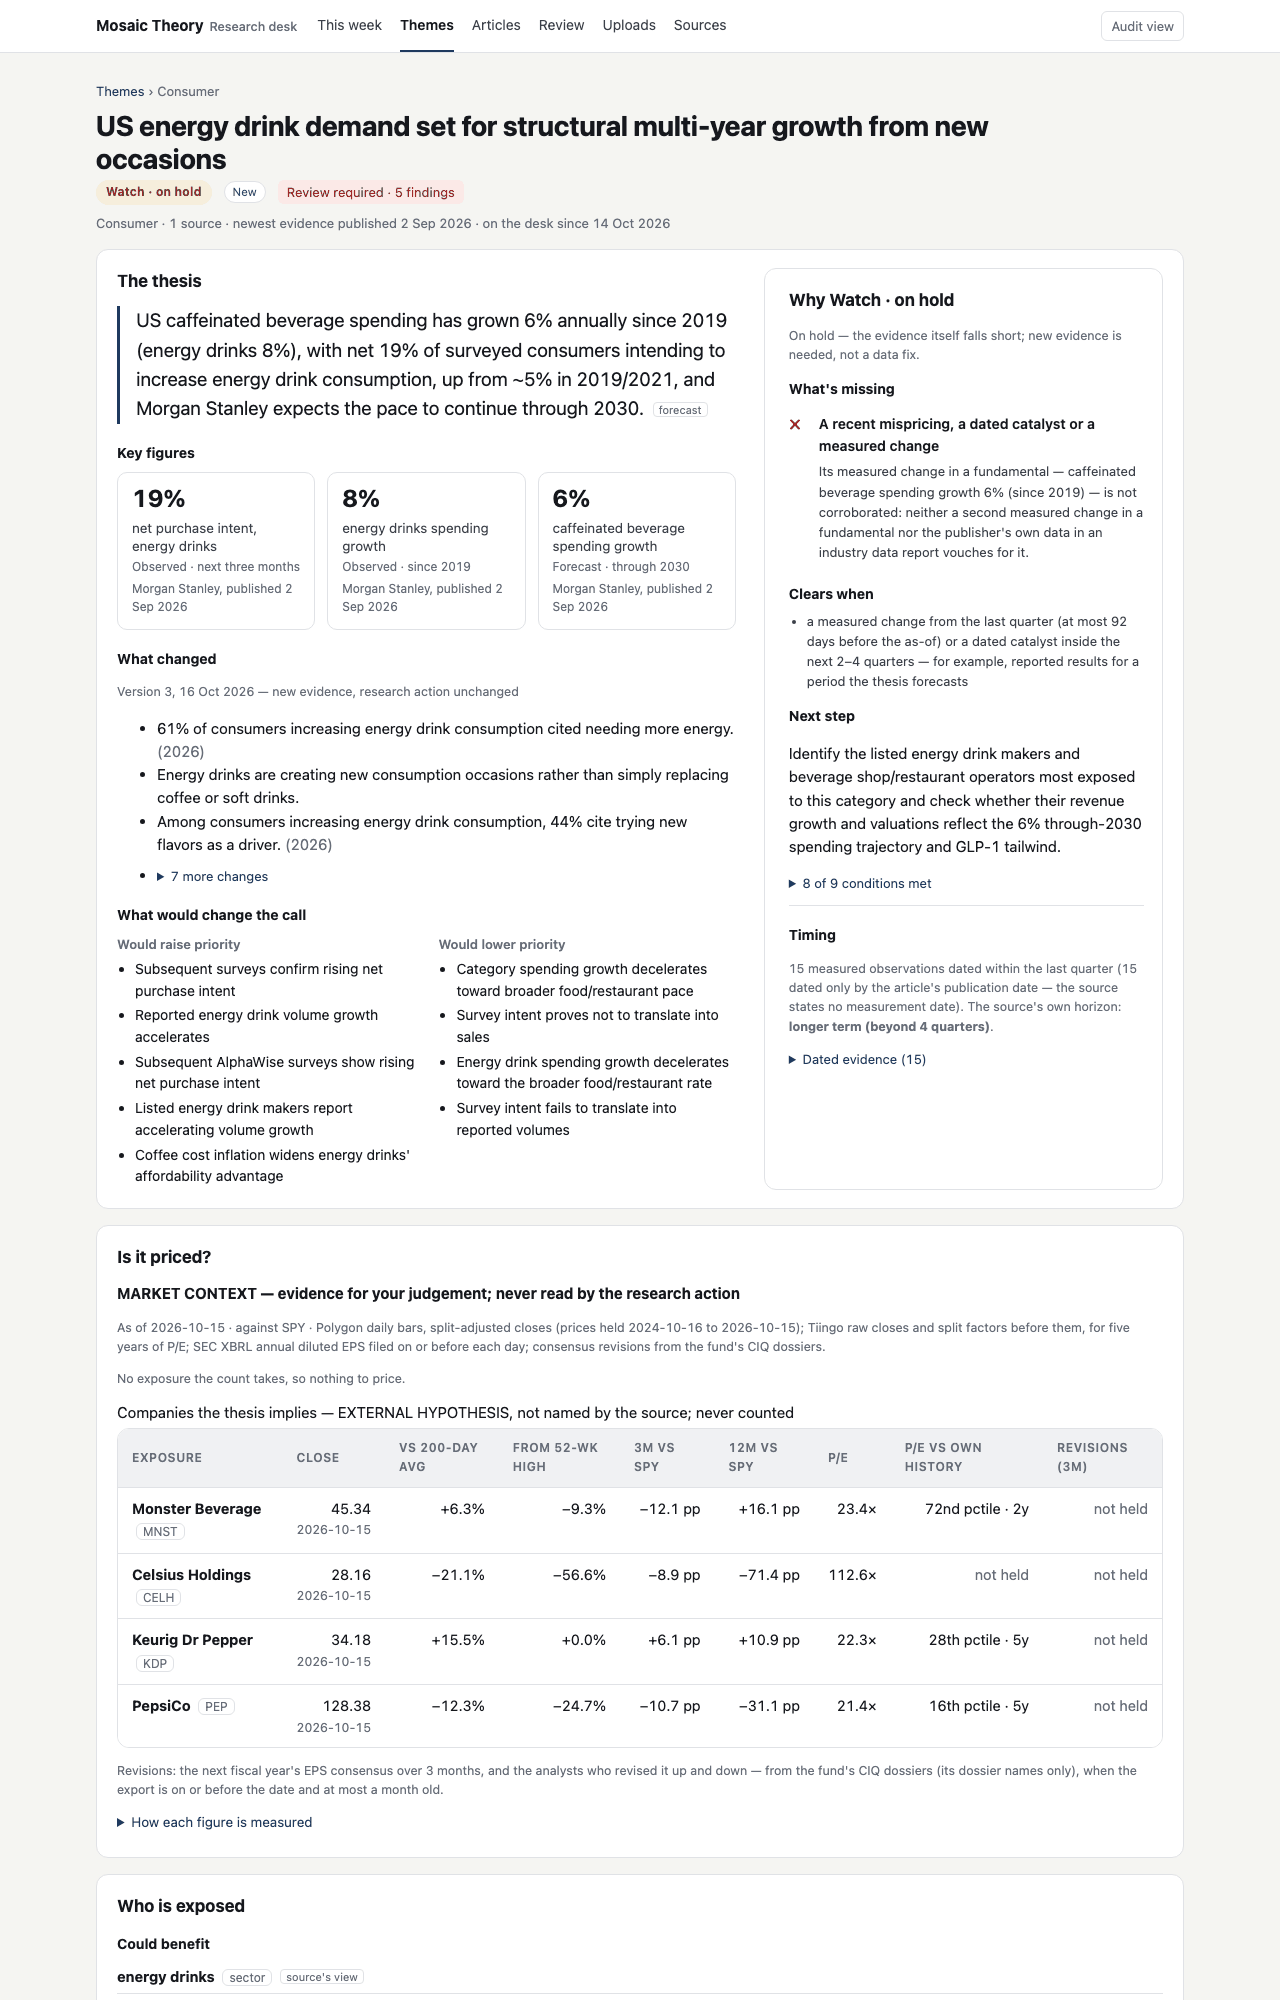
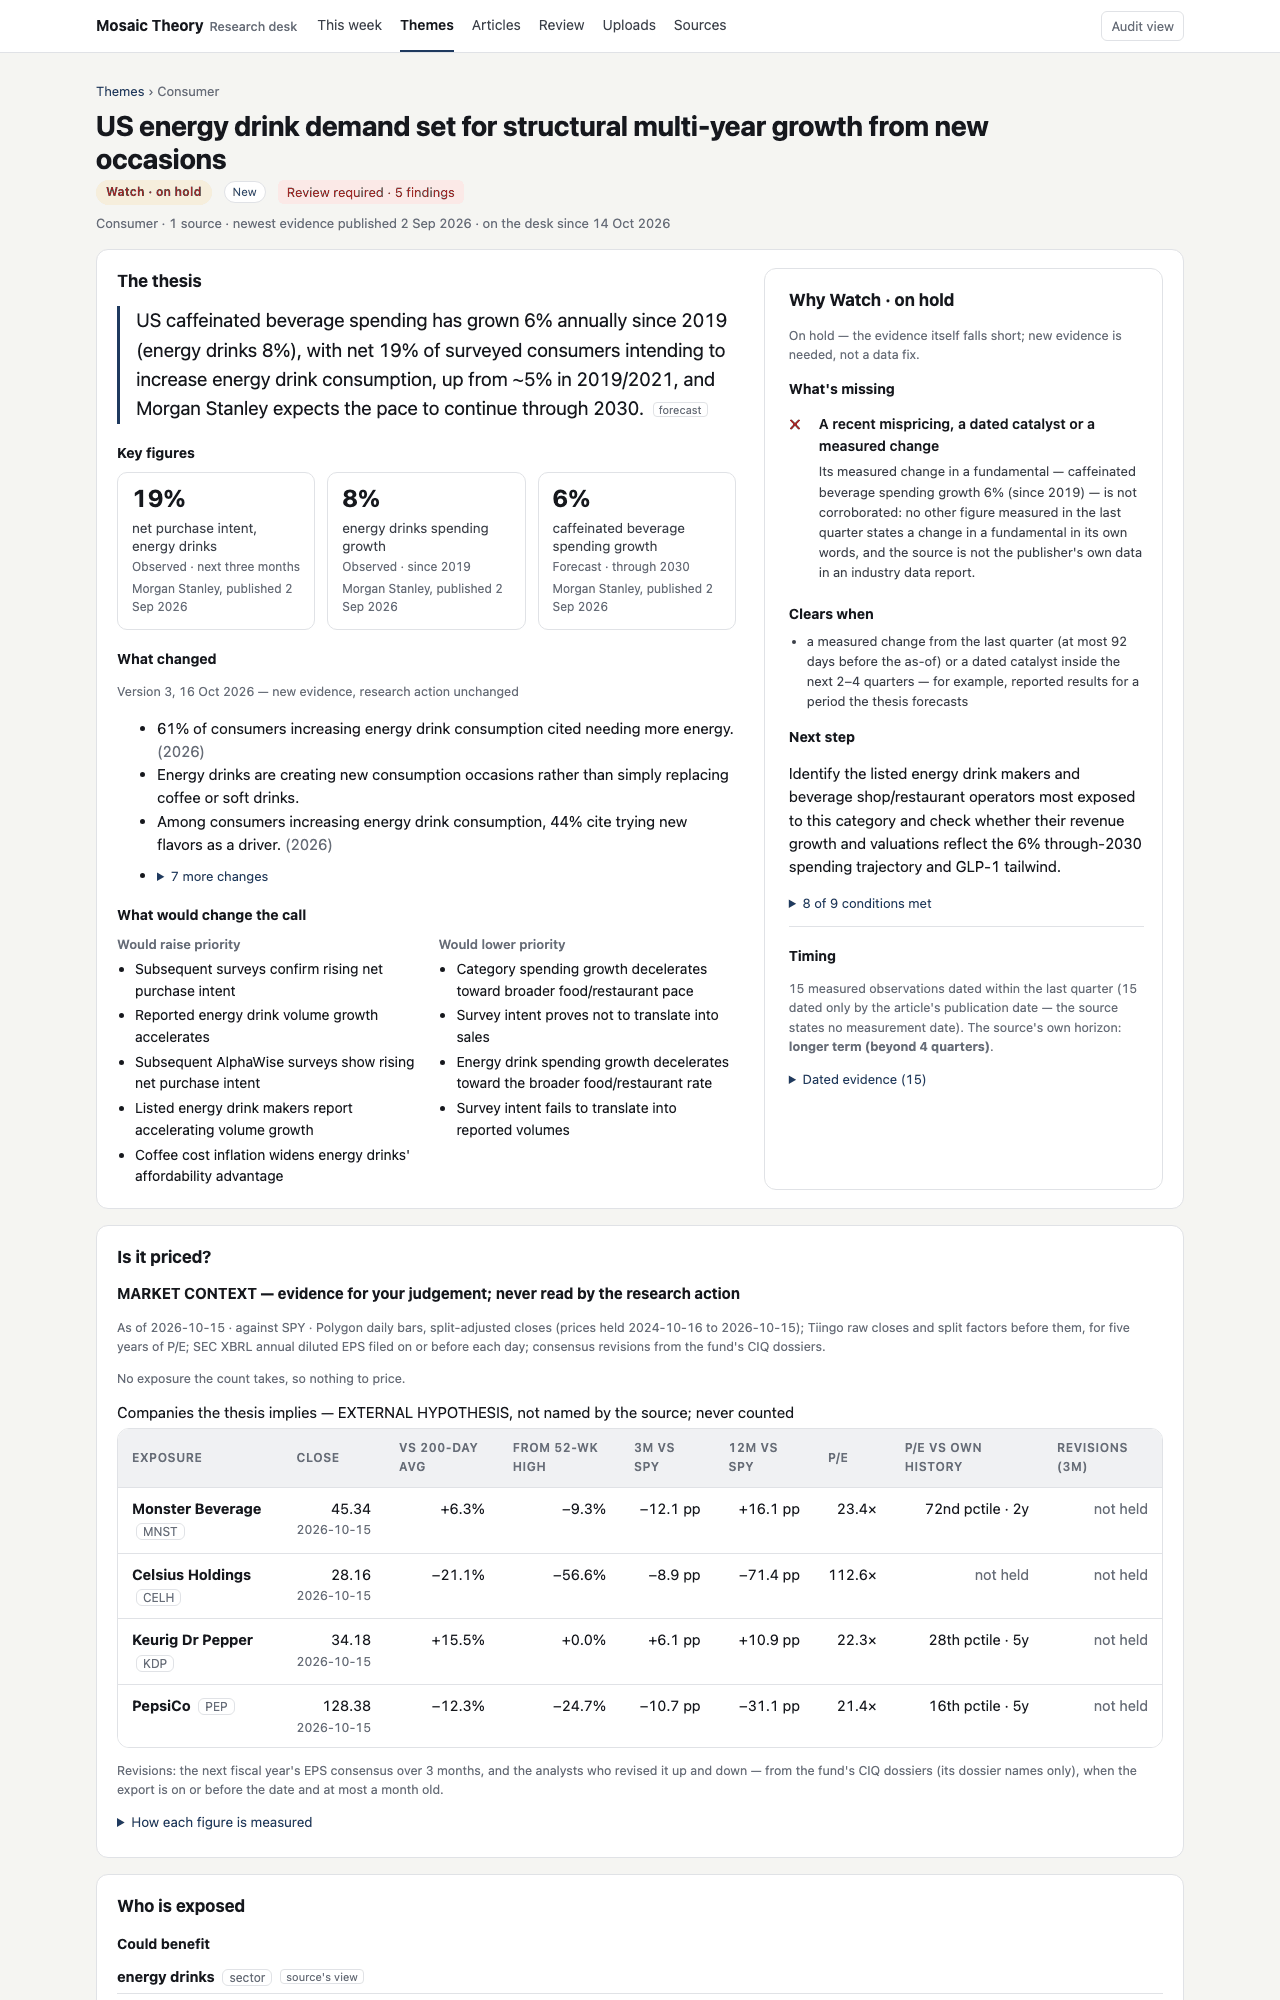
Record: code-review fixes to the desk redesign (2026-10-17)
Nine findings, seven fixed and two skipped with reasons; the TH-16225B12C4 captures re-taken
(standalone and in the app) from a copy of the live pilot registry, run R-20261016T163302Z-market.

Changed region(s): [[0.625, 0.248, 0.9062, 0.558]]

diff --git a/docs/records/2026-10-17-theme-intelligence-desk-for-experts.md b/docs/records/2026-10-17-theme-intelligence-desk-for-experts.md
@@ -70,9 +70,10 @@ inflection reading counted is MEASURED ("spending on caffeinated beverages has g
 annually"), and nothing corroborates it. The panel said "a forecast without a corroborating
 measurement", the desk's wording for every "not credible" reading. It now says: "Its measured
 change in a fundamental — caffeinated beverage spending growth 6% (since 2019) — is not
-corroborated: neither a second measured change in a fundamental nor the publisher's own data in
-an industry data report vouches for it." TH-FBDC863613, the other "not credible" thesis, counts a
-forecast and keeps the forecasts line.
+corroborated: no other figure measured in the last quarter states a change in a fundamental in
+its own words, and the source is not the publisher's own data in an industry data report"
+(wording corrected by the code review, below). TH-FBDC863613, the other "not credible" thesis,
+counts a forecast and keeps the forecasts line.
 
 **A fault found while checking the panel.** When the inflection reading is "incomplete" (a
 measured change from the last quarter IS there; only its step to profits is missing), the
@@ -244,7 +245,49 @@ The first pass's 11 mutants (the key line, "Clears when", the evidence line, the
 directions, periods, the note's name and count, the Monday wording, a wrong clearing text) were
 all killed on the first-pass code, before raise and lower moved out of the panel.
 
-**Suite.** ruff and `mypy --strict` clean; `pytest -m "not network"`: 5858 passed, 513 skipped.
+**Suite.** ruff and `mypy --strict` clean; `pytest -m "not network"`: 5859 passed, 513 skipped (after the review fixes).
+
+## CODE REVIEW FIXES (code review of #740, 2026-10-17)
+
+Nine findings: seven fixed, two skipped.
+- **The uncorroborated line said more than the rule tested.** It said "neither a second measured
+  change in a fundamental", beside a visible "8% energy drinks spending growth — Observed" on
+  TH-16225B12C4. The rule rejects that figure only because its quote ("energy drinks (8%) and
+  beverage shops (7%) leading the category") does not say so in words. The line now states the
+  rule's actual test: "no other figure measured in the last quarter states a change in a
+  fundamental in its own words".
+- **A Research Now could read "Missing: …" with the tooltip "Not yet Research Now".**
+  - When a Research Now's near-term reading is in conflict, the near-term condition reads
+    unmet until the thesis is reassessed. Removing the Watch-only guard in the first pass let
+    that reach This week and Themes.
+  - The guard is restored: the "Missing:" line is a live Watch's. A Research Now's panel heads
+    such a condition "Under review", never "What's missing".
+  - The first pass called the guard an equivalent mutant; that held only on the fixtures, which
+    hold no conflict.
+- **The measured-age line read figures the rule does not date.** It now reads only measured
+  observations (`claim_provenance`) that `timing_of` classes as current or historical, and never
+  a stale series. Before, an opinion, a scheduled event or a stale series dated by its
+  publication date could silence the line or be named as the latest figure.
+- **"(under Timing)" pointed at a count Timing does not show under a conflict.** It is dropped in
+  that case.
+- **`evidence_gap` re-read the near-term reading.** It now takes the page's own `nt`.
+- **The markdown card still printed "from A-…".** `render_markdown` now uses `more_line` too.
+- **The header no-break rule was global.** It is now scoped to the Themes table
+  (`.arts.themes th`).
+- **Skipped: Themes now builds a card context for every live Watch.** That is inherent to naming
+  what each one is missing, and it is cached for This week and the thesis pages.
+- **Skipped: the "showing N of M" note can count more items than the desk lists** (after
+  de-duplication or a withheld line). Fixing it needs the shown and total counts as structured
+  fields on the change item, and parsing them back out of the text is barred by "parsers consume
+  structured values". It was not measured on the pilot.
+
+Pins for each fix, each with its mutant killed (7): the corrected wording; a Research Now under
+a forced conflict (no "Missing:", "Under review"; NEGATIVE: a Watch still names what it is
+missing); a stale series dated inside the window is never the latest figure; no "(under Timing)"
+under a conflict; the markdown card; the scoped CSS rule.
+
+Re-run on the pilot copy: every catalyst panel is unchanged except TH-16225B12C4's wording. No
+pilot page is a Research Now, so none reads "Under review".
 
 ## BOUNDARY
 
@@ -269,3 +312,6 @@ all killed on the first-pass code, before raise and lower moved out of the panel
   - That change, "6% annually since 2019", counts as a last-quarter observation because a
     change since a date is dated by the article's publication date. Whether a multi-year rate is
     a near-term change is a rule question.
+  - "8% energy drinks spending growth" does not corroborate it because the rule reads a change
+    from the quote's words, and that quote has none. A recall gap in `_fundamental_change`: the
+    label says what the quote does not.
